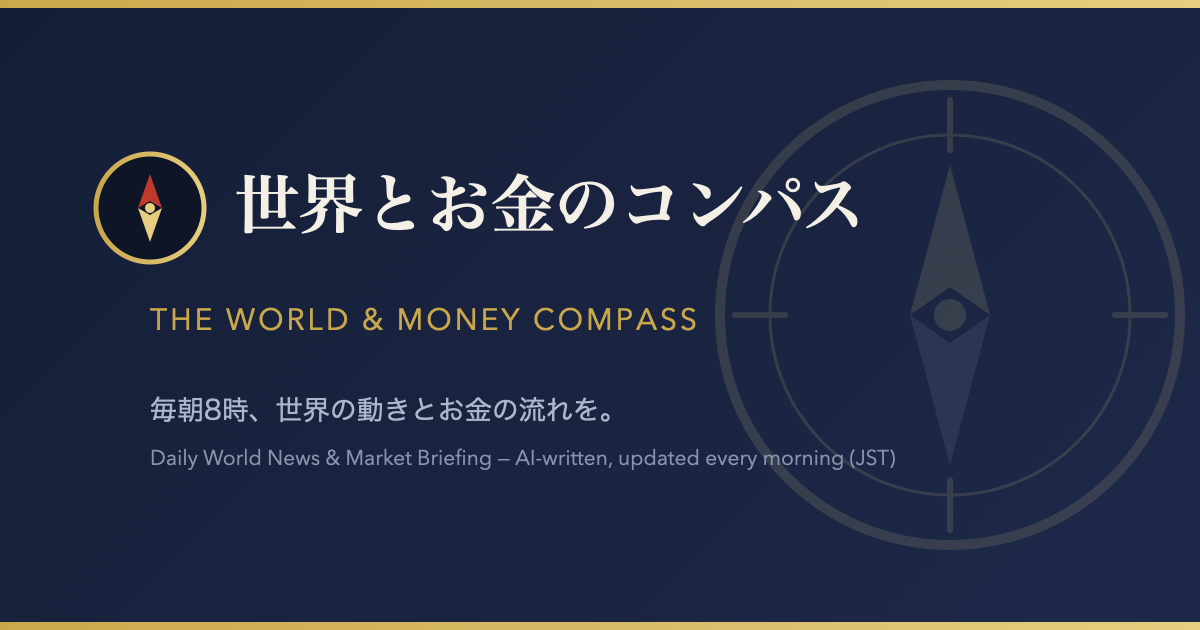
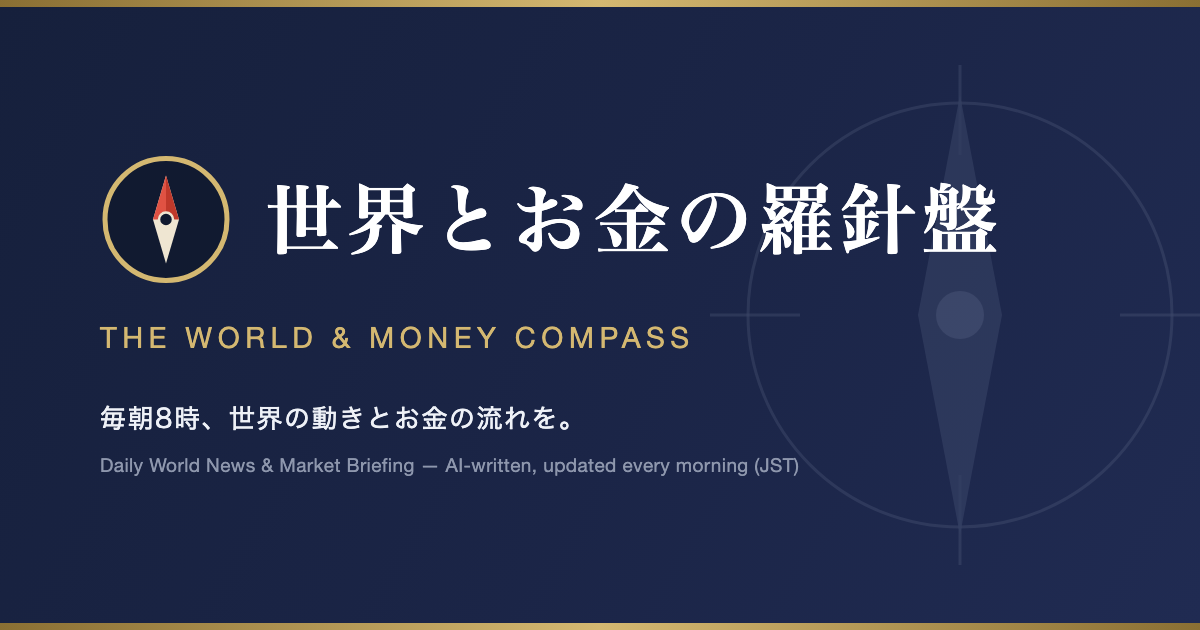
Rename site to 世界とお金の羅針盤
「お金のコンパス」は講談社の少女漫画および東海東京FH系の家計簿アプリ
（2024年6月終了）と名称が競合し、検索で埋もれるため改名。

コンパス→羅針盤の1語変更に留めることで、既存コーナー名
「今日の羅針盤（Compass Insight）」および過去記事46本と整合が取れる。
英語名 The World & Money Compass は英語圏で衝突しないため据え置き。

OG画像は旧名が焼き込まれていたため再生成し、生成元HTMLも
assets/og-image.src.html として同梱した。

diff --git a/assets/og-image.src.html b/assets/og-image.src.html
@@ -1,0 +1,68 @@
+<!doctype html>
+<html><head><meta charset="utf-8">
+<style>
+  * { margin:0; padding:0; box-sizing:border-box; }
+  html,body { width:1200px; height:630px; overflow:hidden; }
+  .card {
+    position:relative; width:1200px; height:630px;
+    background: linear-gradient(120deg, #16203c 0%, #1b2547 55%, #202b52 100%);
+    border-top:7px solid; border-bottom:7px solid;
+    border-image: linear-gradient(90deg,#8a6f33,#d4b871,#8a6f33) 1;
+    overflow:hidden;
+  }
+  /* 右側の大きな透かしコンパス */
+  .watermark { position:absolute; right:-40px; top:50%; transform:translateY(-50%); opacity:.32; }
+  .content { position:absolute; left:100px; top:50%; transform:translateY(-50%); }
+  .row { display:flex; align-items:center; gap:34px; }
+  .badge { flex:none; }
+  .title {
+    font-family:"Hiragino Mincho ProN","Yu Mincho",serif;
+    font-weight:600; font-size:76px; color:#fff;
+    letter-spacing:6px; line-height:1.1; white-space:nowrap;
+  }
+  .sub {
+    margin-top:34px; font-family:"Helvetica Neue",Arial,sans-serif;
+    font-size:29px; font-weight:400; color:#d4b871; letter-spacing:5.5px;
+  }
+  .tag-ja {
+    margin-top:44px; font-family:"Hiragino Sans","Hiragino Kaku Gothic ProN",sans-serif;
+    font-size:26px; font-weight:400; color:#eef1f7; letter-spacing:1.5px;
+  }
+  .tag-en {
+    margin-top:16px; font-family:"Helvetica Neue",Arial,sans-serif;
+    font-size:19px; color:#8e97ad; letter-spacing:.4px;
+  }
+</style></head>
+<body>
+<div class="card">
+
+  <svg class="watermark" width="560" height="560" viewBox="0 0 560 560" fill="none">
+    <circle cx="280" cy="280" r="212" stroke="#7f8aa6" stroke-width="3" opacity=".55"/>
+    <g stroke="#7f8aa6" stroke-width="3" opacity=".55">
+      <line x1="280" y1="30" x2="280" y2="120"/>
+      <line x1="280" y1="440" x2="280" y2="530"/>
+      <line x1="30" y1="280" x2="120" y2="280"/>
+      <line x1="440" y1="280" x2="530" y2="280"/>
+    </g>
+    <path d="M280 60 L322 280 L280 500 L238 280 Z" fill="#5f6c8c" opacity=".75"/>
+    <circle cx="280" cy="280" r="24" fill="#8794b3" opacity=".8"/>
+  </svg>
+
+  <div class="content">
+    <div class="row">
+      <svg class="badge" width="132" height="132" viewBox="0 0 132 132" fill="none">
+        <circle cx="66" cy="66" r="61" fill="#111a30" stroke="#d4b871" stroke-width="5"/>
+        <path d="M66 22 L79 66 L66 110 L53 66 Z" fill="#efe6d2"/>
+        <path d="M66 22 L79 66 L66 66 Z" fill="#c0392b"/>
+        <path d="M66 22 L53 66 L66 66 Z" fill="#e05243"/>
+        <circle cx="66" cy="66" r="7" fill="#111a30" stroke="#efe6d2" stroke-width="2.5"/>
+      </svg>
+      <div class="title">世界とお金の羅針盤</div>
+    </div>
+    <div class="sub">THE WORLD &amp; MONEY COMPASS</div>
+    <div class="tag-ja">毎朝8時、世界の動きとお金の流れを。</div>
+    <div class="tag-en">Daily World News &amp; Market Briefing — AI-written, updated every morning (JST)</div>
+  </div>
+
+</div>
+</body></html>

diff --git a/_includes/head.html b/_includes/head.html
@@ -33,8 +33,8 @@
     "description": {{ page.headline | default: page.title | jsonify }},
     "datePublished": "{{ page.date | date_to_xmlschema }}",
     "inLanguage": "{{ site.active_lang }}",
-    "author": {"@type": "Organization", "name": "世界とお金のコンパス / The World & Money Compass"},
-    "publisher": {"@type": "Organization", "name": "世界とお金のコンパス", "logo": {"@type": "ImageObject", "url": "{{ site.url }}{{ site.baseurl }}/assets/logo.png"}},
+    "author": {"@type": "Organization", "name": "世界とお金の羅針盤 / The World & Money Compass"},
+    "publisher": {"@type": "Organization", "name": "世界とお金の羅針盤", "logo": {"@type": "ImageObject", "url": "{{ site.url }}{{ site.baseurl }}/assets/logo.png"}},
     "image": "{{ site.url }}{{ site.baseurl }}/assets/og-image.png"
   }
   </script>

diff --git a/_includes/header.html b/_includes/header.html
@@ -1,7 +1,7 @@
 <header class="site-header" role="banner">
   <div class="wrapper">
     <a class="site-title brand" rel="author" href="{{ "/" | relative_url }}">
-      <img class="brand-mark" src="{{ "/assets/logo.png" | relative_url }}" alt="世界とお金のコンパス ロゴ" width="40" height="40">
+      <img class="brand-mark" src="{{ "/assets/logo.png" | relative_url }}" alt="世界とお金の羅針盤 ロゴ" width="40" height="40">
       <span class="brand-text">
         <span class="brand-name">{% if site.active_lang == "en" %}{{ site.title_en | escape }}{% else %}{{ site.title | escape }}{% endif %}</span>
         <span class="brand-tagline">{% if site.active_lang == "en" %}Every morning — the world and your money.{% else %}毎朝8時、世界の動きとお金の流れを。{% endif %}</span>

diff --git a/automation/SKILL.md b/automation/SKILL.md
@@ -47,7 +47,7 @@ done
   ```
 - 「今日の注目銘柄・セクター」その日のニュースに関連して**値動き・話題になった銘柄やセクターを2〜4つ**挙げ、「なぜ注目されたか」を解説する。**特定銘柄の買い・売りを推奨しないこと**（あくまで情報・解説）。実際にニュースで動いた銘柄を事実ベースで扱い、創作しない。末尾に必ず `*※特定銘柄の売買を推奨するものではありません。投資判断はご自身の責任で。*` を付ける
 - 「まとめ：注目の3つ」
-- 「今日の羅針盤（Compass Insight）」**毎日必ず入れる固定コーナー（300〜500字）**。ブログ名「世界とお金のコンパス」を体現する看板コーナー。ニュースの繰り返しではなく、(1)その日の流れを貫く独自の読み解き (2)**読者の家計・生活・投資にどう影響しうるか**（例：円安→輸入品・光熱費、金利→住宅ローン） (3)短期と中長期でそれぞれ何に注目すべきか、を自分の言葉で書く。**新しい未確認の事実は追加しない**（記事中で裏取り済みの内容の範囲で解釈・分析する）。断定的な投資助言はせず「〜に注目」「〜の可能性」の表現にとどめる。
+- 「今日の羅針盤（Compass Insight）」**毎日必ず入れる固定コーナー（300〜500字）**。ブログ名「世界とお金の羅針盤」をそのまま冠した看板コーナー。ニュースの繰り返しではなく、(1)その日の流れを貫く独自の読み解き (2)**読者の家計・生活・投資にどう影響しうるか**（例：円安→輸入品・光熱費、金利→住宅ローン） (3)短期と中長期でそれぞれ何に注目すべきか、を自分の言葉で書く。**新しい未確認の事実は追加しない**（記事中で裏取り済みの内容の範囲で解釈・分析する）。断定的な投資助言はせず「〜に注目」「〜の可能性」の表現にとどめる。
 - **見出し（##・###）に絵文字・アイコンは使わない**（テキストのみ）
 - ※英語版は**同じ記事内には書かず、別ファイル**として作る（下記「3. ファイルを保存する」参照）。
 - 末尾に「出典」セクション。**実際に参照した記事・データのURLをクリックできるMarkdownリンクで列挙する**。小さく表示するため必ず `<div class="post-sources" markdown="1">` で囲む。形式例:

diff --git a/README.md b/README.md
@@ -1,4 +1,4 @@
-# 世界とお金のコンパス
+# 世界とお金の羅針盤
 
 毎朝8時（JST）に自動更新される、日英2言語のニュース＆経済ブリーフィングブログ。
 
